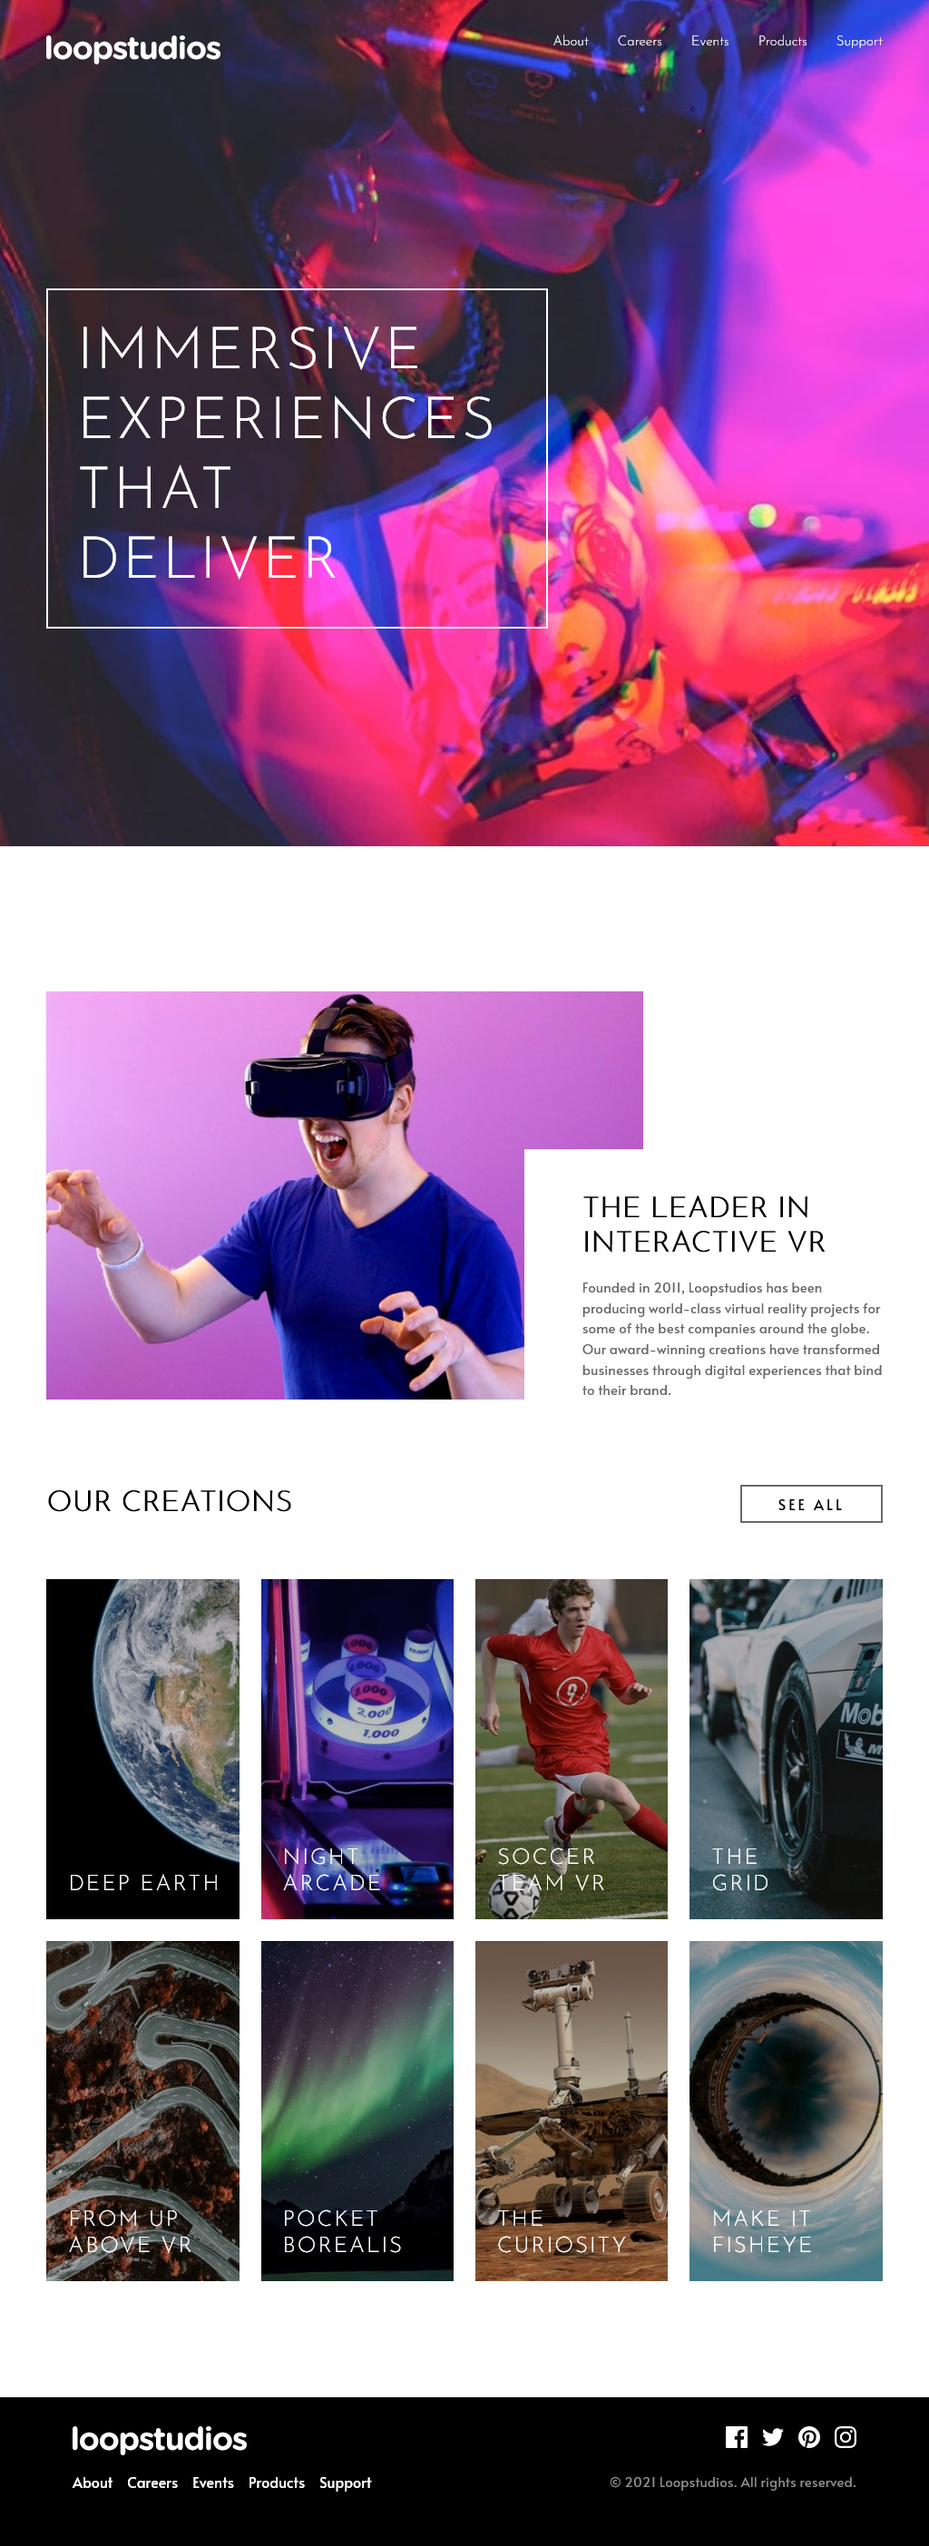
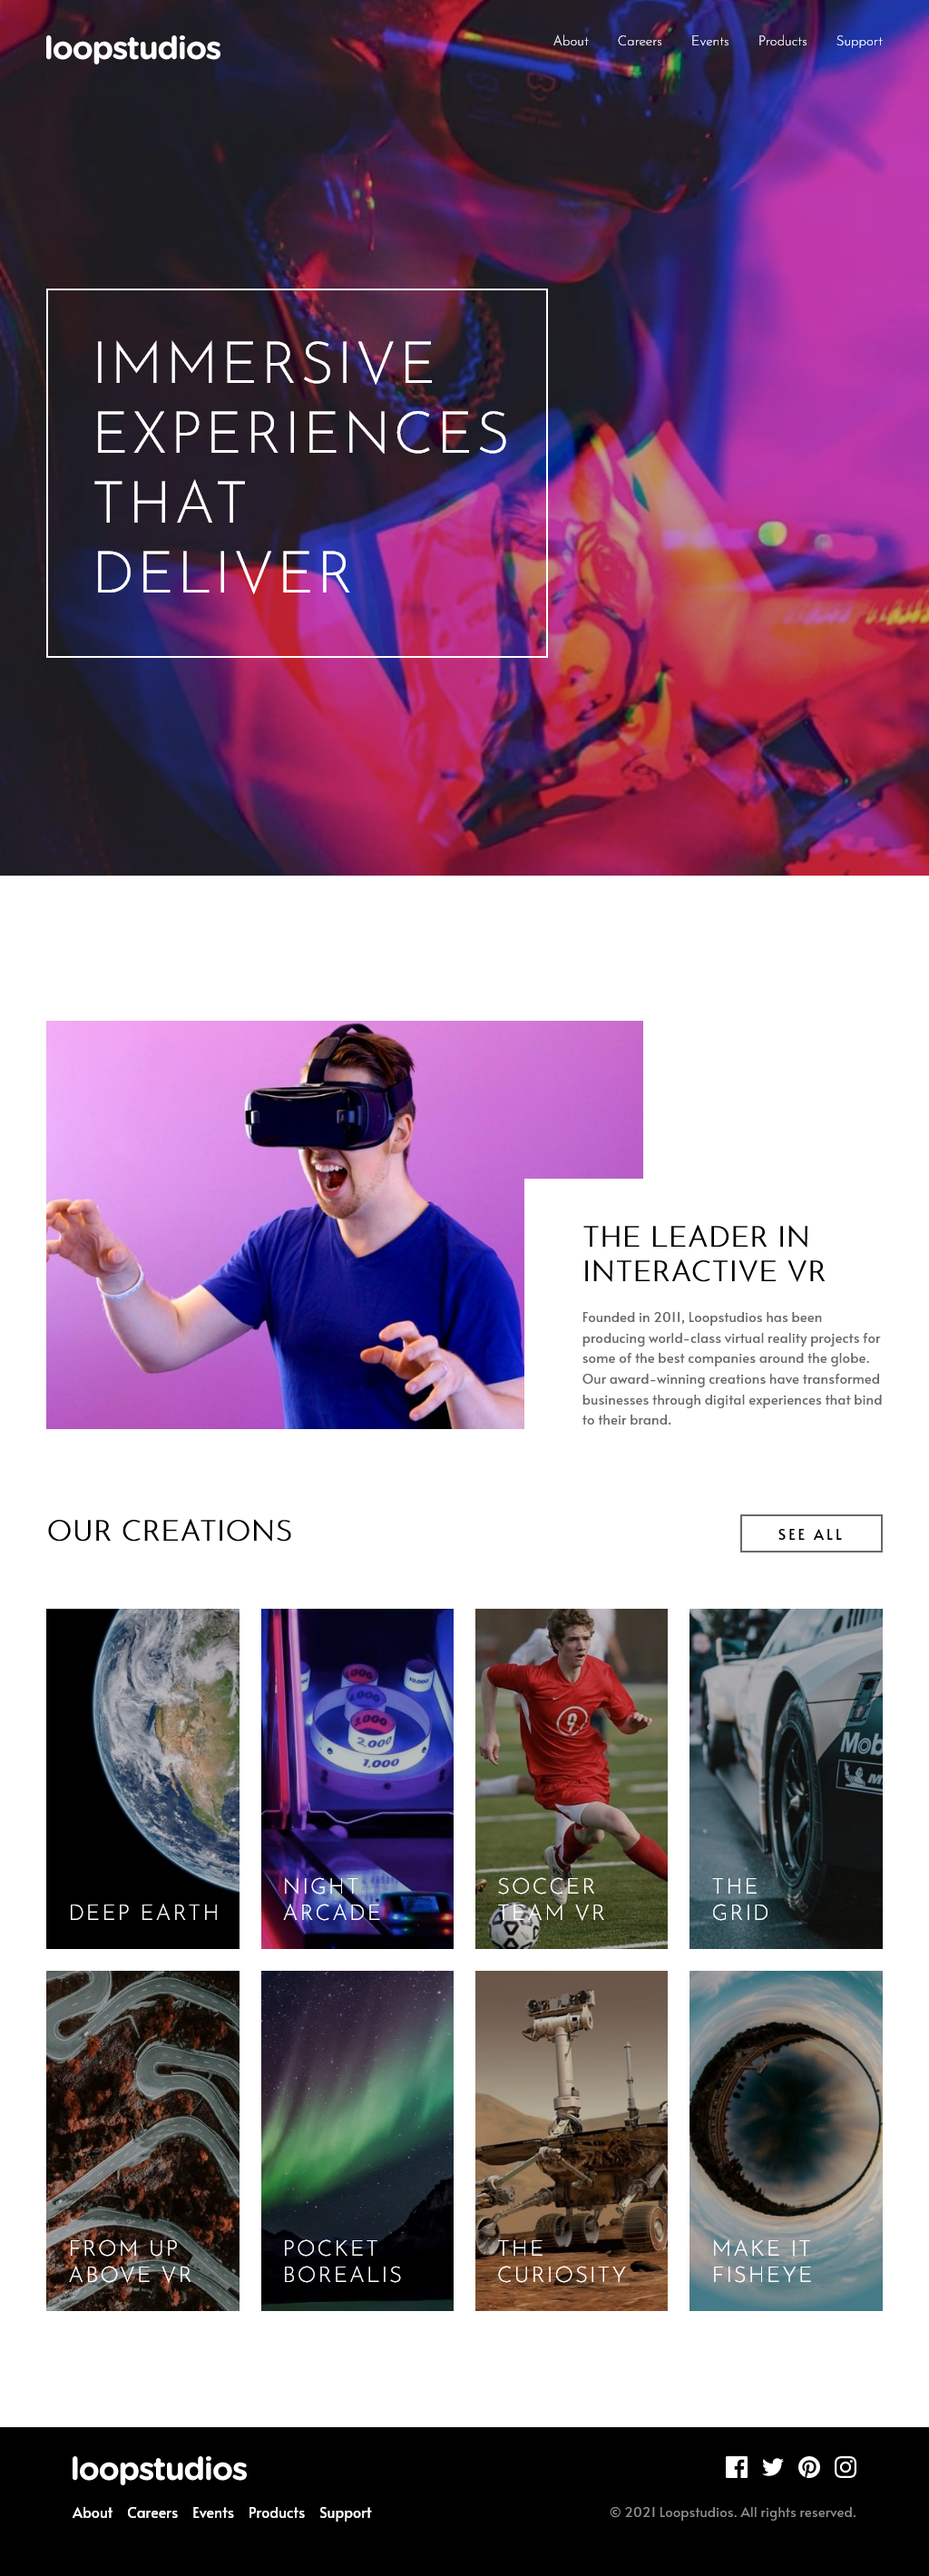
finishing up

diff --git a/loopstudios-landing-page-main/style.css b/loopstudios-landing-page-main/style.css
@@ -312,7 +312,13 @@ img {
     max-width: 1200px;
   }
 
+  .mobile-only {
+    display: none;
+  }
+
   .header {
+    background-blend-mode: darken;
+    background-color: rgba(0, 0, 0, 0.25);
     background-image: url(images/desktop/image-hero.jpg);
     background-position: center;
   }
@@ -360,7 +366,7 @@ img {
     font-weight: 300;
     left: 5%;
     letter-spacing: 3px;
-    padding: 0.5em;
+    padding: 0.75em;
     position: inherit;
     right: 5%;
     text-align: left;

diff --git a/loopstudios-landing-page-main/index.html b/loopstudios-landing-page-main/index.html
@@ -22,7 +22,7 @@
         </ul>
       </nav>
       <div class="header__title-wrapper">        
-        <h1 class="header__title">Immersive experiences that<br> deliver</h1>
+        <h1 class="header__title">Immersive experiences that<br class="mobile-only"> deliver</h1>
       </div>
     </div>
 </header>

diff --git a/loopstudios-landing-page-main/README.md b/loopstudios-landing-page-main/README.md
@@ -1,94 +1,31 @@
-# Frontend Mentor - Loopstudios landing page
+# Frontend Mentor - Loopstudios landing page solution
 
-![Design preview for the Loopstudios landing page coding challenge](./design/desktop-preview.jpg)
+This is a solution to the [Loopstudios landing page challenge on Frontend Mentor](https://www.frontendmentor.io/challenges/loopstudios-landing-page-N88J5Onjw). Frontend Mentor challenges help you improve your coding skills by building realistic projects.
 
-## Welcome! 👋
+### The challenge
 
-Thanks for checking out this front-end coding challenge.
-
-[Frontend Mentor](https://www.frontendmentor.io) challenges help you improve your coding skills by building realistic projects.
-
-**To do this challenge, you need a good understanding of HTML and CSS and a basic understanding of JavaScript.**
-
-## The challenge
-
-Your challenge is to build out this landing page and get it looking as close to the design as possible.
-
-This challenge focuses mostly on HTML & CSS. There's a tiny bit of JS included for the mobile navigation toggle. But you could also choose to do this without JS!
-
-You can use any tools you like to help you complete the challenge. So if you've got something you'd like to practice, feel free to give it a go.
-
-Your users should be able to:
+Users should be able to:
 
 - View the optimal layout for the site depending on their device's screen size
 - See hover states for all interactive elements on the page
 
-Want some support on the challenge? [Join our Slack community](https://www.frontendmentor.io/slack) and ask questions in the **#help** channel.
+### Screenshot
 
-## Where to find everything
+![](./mobile.png)
+![](./desktop.png)
 
-Your task is to build out the project to the designs inside the `/design` folder. You will find both a mobile and a desktop version of the design. 
+### Links
 
-The designs are in JPG static format. Using JPGs will mean that you'll need to use your best judgment for styles such as `font-size`, `padding` and `margin`. 
+- Solution URL: [https://github.com/crackerFactory64/Frontend-Mentor-Projects/tree/main/loopstudios-landing-page-main](https://github.com/crackerFactory64/Frontend-Mentor-Projects/tree/main/loopstudios-landing-page-main)
+- Live Site URL: [https://crackerfactory64.github.io/Frontend-Mentor-Projects/loopstudios-landing-page-main/](https://crackerfactory64.github.io/Frontend-Mentor-Projects/loopstudios-landing-page-main/)
 
-If you would like the design files (we provide Sketch & Figma versions) to inspect the design in more detail, you can [subscribe as a PRO member](https://www.frontendmentor.io/pro).
+## My process
 
-You will find all the required assets in the `/images` folder. The assets are already optimized.
+### Built with
 
-There is also a `style-guide.md` file containing the information you'll need, such as color palette and fonts.
-
-## Building your project
-
-Feel free to use any workflow that you feel comfortable with. Below is a suggested process, but do not feel like you need to follow these steps:
-
-1. Initialize your project as a public repository on [GitHub](https://github.com/). Creating a repo will make it easier to share your code with the community if you need help. If you're not sure how to do this, [have a read-through of this Try Git resource](https://try.github.io/).
-2. Configure your repository to publish your code to a web address. This will also be useful if you need some help during a challenge as you can share the URL for your project with your repo URL. There are a number of ways to do this, and we provide some recommendations below.
-3. Look through the designs to start planning out how you'll tackle the project. This step is crucial to help you think ahead for CSS classes to create reusable styles.
-4. Before adding any styles, structure your content with HTML. Writing your HTML first can help focus your attention on creating well-structured content.
-5. Write out the base styles for your project, including general content styles, such as `font-family` and `font-size`.
-6. Start adding styles to the top of the page and work down. Only move on to the next section once you're happy you've completed the area you're working on.
-
-## Deploying your project
-
-As mentioned above, there are many ways to host your project for free. Our recommend hosts are:
-
-- [GitHub Pages](https://pages.github.com/)
-- [Vercel](https://vercel.com/)
-- [Netlify](https://www.netlify.com/)
-
-You can host your site using one of these solutions or any of our other trusted providers. [Read more about our recommended and trusted hosts](https://medium.com/frontend-mentor/frontend-mentor-trusted-hosting-providers-bf000dfebe).
-
-## Create a custom `README.md`
-
-We strongly recommend overwriting this `README.md` with a custom one. We've provided a template inside the [`README-template.md`](./README-template.md) file in this starter code.
-
-The template provides a guide for what to add. A custom `README` will help you explain your project and reflect on your learnings. Please feel free to edit our template as much as you like.
-
-Once you've added your information to the template, delete this file and rename the `README-template.md` file to `README.md`. That will make it show up as your repository's README file.
-
-## Submitting your solution
-
-Submit your solution on the platform for the rest of the community to see. Follow our ["Complete guide to submitting solutions"](https://medium.com/frontend-mentor/a-complete-guide-to-submitting-solutions-on-frontend-mentor-ac6384162248) for tips on how to do this.
-
-Remember, if you're looking for feedback on your solution, be sure to ask questions when submitting it. The more specific and detailed you are with your questions, the higher the chance you'll get valuable feedback from the community.
-
-## Sharing your solution
-
-There are multiple places you can share your solution:
-
-1. Share your solution page in the **#finished-projects** channel of the [Slack community](https://www.frontendmentor.io/slack). 
-2. Tweet [@frontendmentor](https://twitter.com/frontendmentor) and mention **@frontendmentor**, including the repo and live URLs in the tweet. We'd love to take a look at what you've built and help share it around.
-3. Share your solution on other social channels like LinkedIn.
-4. Blog about your experience building your project. Writing about your workflow, technical choices, and talking through your code is a brilliant way to reinforce what you've learned. Great platforms to write on are [dev.to](https://dev.to/), [Hashnode](https://hashnode.com/), and [CodeNewbie](https://community.codenewbie.org/).
-
-We provide templates to help you share your solution once you've submitted it on the platform. Please do edit them and include specific questions when you're looking for feedback. 
-
-The more specific you are with your questions the more likely it is that another member of the community will give you feedback.
-
-## Got feedback for us?
-
-We love receiving feedback! We're always looking to improve our challenges and our platform. So if you have anything you'd like to mention, please email hi[at]frontendmentor[dot]io.
-
-This challenge is completely free. Please share it with anyone who will find it useful for practice.
-
-**Have fun building!** 🚀
+- Semantic HTML5 markup
+- CSS custom properties
+- Flexbox
+- CSS Grid
+- Mobile-first workflow
+- BEM naming conventions
